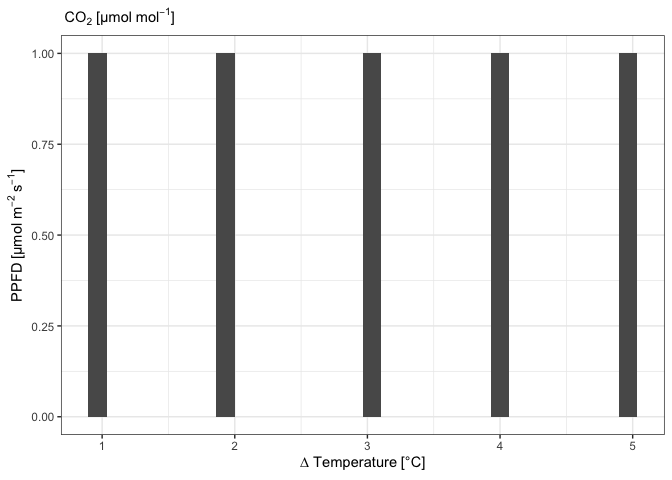
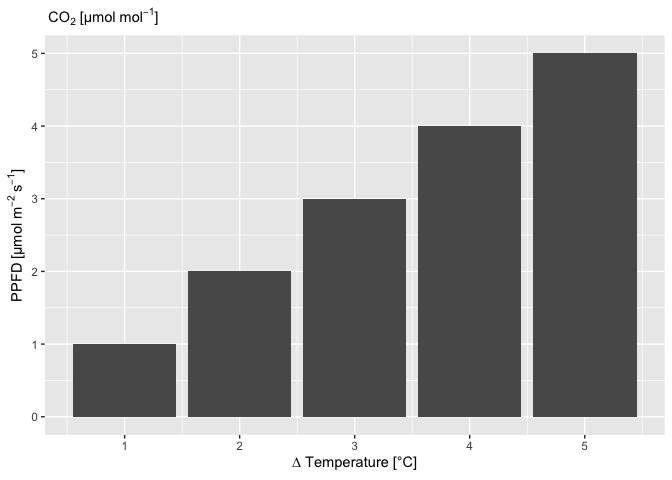
Update: theme_funkea for new ggplot2

diff --git a/README.md b/README.md
@@ -8,6 +8,17 @@
 <!-- badges: end -->
 
 ``` r
+library(tidyverse)
+#> ── Attaching core tidyverse packages ──────────────────────── tidyverse 2.0.0 ──
+#> ✔ dplyr     1.1.4     ✔ readr     2.1.5
+#> ✔ forcats   1.0.0     ✔ stringr   1.5.1
+#> ✔ ggplot2   4.0.0     ✔ tibble    3.3.0
+#> ✔ lubridate 1.9.4     ✔ tidyr     1.3.1
+#> ✔ purrr     1.1.0     
+#> ── Conflicts ────────────────────────────────────────── tidyverse_conflicts() ──
+#> ✖ dplyr::filter() masks stats::filter()
+#> ✖ dplyr::lag()    masks stats::lag()
+#> ℹ Use the conflicted package (<http://conflicted.r-lib.org/>) to force all conflicts to become errors
 library(funkea)
 ```
 
@@ -15,8 +26,8 @@ library(funkea)
 
 ``` r
 p <-
-  mtcars %>%
-  mutate(am = if_else(am == 0, "オートマティック", "マニュアル")) %>%
+  mtcars |>
+  mutate(am = if_else(am == 0, "オートマティック", "マニュアル")) |>
   ggplot(aes(hp, mpg, col = cyl)) +
   theme_grey() +
   geom_point() +
@@ -39,12 +50,10 @@ p +
 
 ## ggplot label
 
-  - `gglabel`にラベルに頻用する単位をまとめる
-      - text引数で単位以外の部分を記述
-      - expression記法する場合は`~`スタート
-      - `see_unicode()`で主要なunicodeを確認
-
-<!-- end list -->
+- `gglabel`にラベルに頻用する単位をまとめる
+  - text引数で単位以外の部分を記述
+  - expression記法する場合は`~`スタート
+  - `see_unicode()`で主要なunicodeを確認
 
 ``` r
 see_unicode()
@@ -53,21 +62,20 @@ see_unicode()
 <img src="man/figures/README-labels-1.png" width="100%" />
 
 ``` r
-qplot(1:5) + theme_bw() +
+tibble(x = 1:5) |>
+  ggplot(aes(x, x)) +
+  geom_col() +
   labs(x = gglabel("\u2206 Temperature", type = "degC"),
        y = gglabel("PPFD", type = "muflux"),
        subtitle = gglabel(~CO[2], type = "muconc"))
-#> `stat_bin()` using `bins = 30`. Pick better value with `binwidth`.
 ```
 
 <img src="man/figures/README-labels-2.png" width="100%" />
 
 ## zero filling
 
-  - 整数部桁揃え
-      - 内部的には`str_pad`
-
-<!-- end list -->
+- 整数部桁揃え
+  - 内部的には`str_pad`
 
 ``` r
 x <- c(1, 20, 100, NA)
@@ -79,10 +87,8 @@ lead_zero(x, 3)
 #> [1] "001" "020" "100" NA
 ```
 
-  - 小数点以下揃え
-      - 内部的には`sprintf`
-
-<!-- end list -->
+- 小数点以下揃え
+  - 内部的には`sprintf`
 
 ``` r
 y <- c(0.1, 0.001, 0.09, NA)
